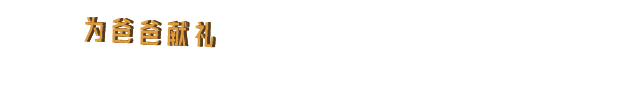
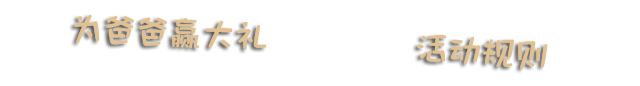
完成新版主题页的替换

Changed region(s): [[0.0938, 0.186, 0.4375, 0.6047], [0.625, 0.3953, 0.875, 0.8372]]

diff --git a/applications/static/h5/css/father/skin.css b/applications/static/h5/css/father/skin.css
@@ -40,13 +40,13 @@ img{display:block;width:100%}
 .on .loading-img{animation:fade-in 2s linear both;-webkit-animation:fade-in 2s linear both}
 #percent{position:absolute;right:.5rem;top:110%;color:#fff;text-align:center;left:0;opacity:0.7}
 /*-----------------------------����-------------------------------------*/
-#music{position:absolute;width:.33rem;height:.33rem;right:.02rem;top:.02rem;z-index:500;visibility:hidden}
+#music{position:absolute;width:.33rem;height:.33rem;right:.02rem;top:0.6rem;z-index:500;visibility:hidden}
 .music{width:100%;height:100%;background:url(../../images/father/music.png?v=20170606) no-repeat center bottom;background-size:100%}
 .play{background-position:center top}
 #music>span{color:#fff;position:absolute;left:-.52rem;top:0;line-height:.33rem;font-size:.14rem;opacity:0;-webkit-transition:all 0.3s linear;transition:all 0.3s linear}
 #music>span.zshow{left:-.3rem;opacity:1}
 /*-----------------------------��һ��-------------------------------------*/
-.text-1{position:absolute;width:1.09rem;height:1.58rem;right:.28rem;top:.2rem}
+.text-1{position:absolute;width:1.09rem;height:1.58rem;right:.28rem;top:0.62rem}
 @keyframes fade-in{0%{opacity:0}100%{opacity:1}}
 @-webkit-keyframes fade-in{0%{opacity:0}100%{opacity:1}}
 @keyframes fade-out{0%{opacity:1}100%{opacity:0}}
@@ -59,19 +59,19 @@ img{display:block;width:100%}
 @-webkit-keyframes bg{0%{-webkit-transform:scale(1)}100%{-webkit-transform:scale(1.1)}}
 .on>.bg{animation:bg 10s linear both;-webkit-animation:bg 10s linear both}
 /*-----------------------------�ڶ���-------------------------------------*/
-.text-2{position:absolute;width:1.17rem;height:1.45rem;left:1.06rem;top:0}
+.text-2{position:absolute;width:1.17rem;height:1.45rem;left:1.06rem;top:0.36rem}
 .on .text-2-1{animation:fade-in 1s linear both;-webkit-animation:fade-in 1s linear both}
 .on .text-2-2{animation:fade-in 1s linear both 1s;-webkit-animation:fade-in 1s linear both 1s}
 .on .text-2-3{animation:fade-in 1s linear both 2.5s;-webkit-animation:fade-in 1s linear both 2.5s}
 .on .text-2-4{animation:fade-in 1s linear both 4s;-webkit-animation:fade-in 1s linear both 4s}
 /*-----------------------------������-------------------------------------*/
-.text-3{position:absolute;width:1.09rem;height:1.3rem;left:1.7rem;top:.12rem}
+.text-3{position:absolute;width:1.09rem;height:1.3rem;left:1.7rem;top:0.66rem}
 .on .text-3-1{animation:fade-in 1s linear both;-webkit-animation:fade-in 1s linear both}
 .on .text-3-2{animation:fade-in 1s linear both 0.7s;-webkit-animation:fade-in 1s linear both 0.7s}
 .on .text-3-3{animation:fade-in 1s linear both 2s;-webkit-animation:fade-in 1s linear both 2s}
 .on .text-3-4{animation:fade-in 1s linear both 3.5s;-webkit-animation:fade-in 1s linear both 3.5s}
 /*-----------------------------������-------------------------------------*/
-.text-4{position:absolute;width:1.12rem;height:1.89rem;left:1.85rem;top:.16rem}
+.text-4{position:absolute;width:1.12rem;height:1.89rem;left:1.85rem;top:0.66rem}
 .train{width:35.2rem}
 .on .train{animation:train 1.5s steps(1) both 3;-webkit-animation:train 1.5s steps(1) both 3}
 .on .train>.bg{animation:trains 3s steps(1) both 4.5s;-webkit-animation:trains 3s steps(1) both 4.5s}
@@ -88,7 +88,7 @@ img{display:block;width:100%}
 .on .text-4-4{animation:fade-in 1s linear both 5s;-webkit-animation:fade-in 1s linear both 5s}
 .on .text-4-5{animation:fade-in 1s linear both 6.5s;-webkit-animation:fade-in 1s linear both 6.5s}
 /*-----------------------------������-------------------------------------*/
-.text-5{position:absolute;width:1.3rem;height:1.09rem;left:1.3rem;top:.25rem}
+.text-5{position:absolute;width:1.3rem;height:1.09rem;left:1.3rem;top:0.65rem}
 .on .text-5-1{animation:fade-in 1s linear both;-webkit-animation:fade-in 1s linear both}
 .on .text-5-2{animation:fade-in 1s linear both 1s;-webkit-animation:fade-in 1s linear both 1s}
 .on .text-5-3{animation:fade-in 1s linear both 2.5s;-webkit-animation:fade-in 1s linear both 2.5s}
@@ -102,7 +102,7 @@ img{display:block;width:100%}
 /*-----------------------------������-------------------------------------*/
 .text-7{position:absolute;width:1.29rem;height:1.3rem;left:1.35rem;top:.75rem}
 .text-8{position:absolute;width:.52rem;height:1.09rem;left:1.75rem;top:.8rem}
-.text-9{position:absolute;width:.81rem;height:1.84rem;left:1.43rem;top:.3rem}
+.text-9{position:absolute;width:.81rem;height:1.84rem;left:1.43rem;top:0.66rem}
 .on .text-7-1{animation:fade-in 1s linear both;-webkit-animation:fade-in 1s linear both}
 .on .text-7-2{animation:fade-in 1s linear both 1s;-webkit-animation:fade-in 1s linear both 1s}
 .on .text-7-3{animation:fade-in 1s linear both 2.4s;-webkit-animation:fade-in 1s linear both 2.4s}
@@ -119,12 +119,10 @@ img{display:block;width:100%}
 @-webkit-keyframes fade-in-big{0%{-webkit-transform:scale(0.8)}100%{-webkit-transform:scale(1)}}
 /*-----------------------------�ڰ���-------------------------------------*/
 .logo{position:absolute;width:1.03rem;left:.14rem;top:.18rem}
-.liwu{position:absolute;left:0;width:3.2rem;height:2.26rem;bottom:1.8rem;opacity:0}
+.liwu{position:absolute;left:0;width:3.2rem;height:2.26rem;bottom:2.26rem;opacity:0}
 .text-end{position:absolute;left:.35rem;width:2.44rem;height:.33rem;bottom:1.25rem;opacity:0}
 .button{bottom:.36rem;opacity:0}
-.button a{position:absolute;top:0;width:50%;height:100%;text-indent:-9999px;overflow:hidden}
-.link{left:0}
-.share{right:0}
+
 @keyframes fade-in-down{0%{transform:translate(0,-50%);opacity:0}100%{transform:none;opacity:1}}
 @-webkit-keyframes fade-in-down{0%{-webkit-transform:translate(0,-50%);opacity:0}100%{-webkit-transform:none;opacity:1}}
 .on .liwu{animation:fade-in-down 1s ease both;-webkit-animation:fade-in-down 1s ease both}

diff --git a/applications/static/h5/css/father/diy.css b/applications/static/h5/css/father/diy.css
@@ -70,3 +70,46 @@
     padding: 0.05rem;
 	font-size: 0.1rem;
 }
+
+#logo{
+	position:absolute;
+	width:100%;
+	height:0.4rem;
+	z-index:500;
+}
+
+.logo-left, .logo-right{
+	float:left;
+	width:50%;
+}
+
+.logo-right img{
+	height:100%;
+	margin-left: -0.2rem;
+}
+
+
+.logo-left img{
+	height:100%;
+	margin-left: 0.3rem;
+}
+
+.link{
+	position: absolute;
+	width: 50%;
+    height: 0.3rem;
+    text-indent: -9999px;
+    overflow: hidden;
+    bottom: 0.1rem;
+}
+
+.gz{
+	position: absolute;
+	width: 50%;
+    height: 0.3rem;
+    text-indent: -9999px;
+    overflow: hidden;
+    bottom: 0.04rem;
+	right:0;
+}
+

diff --git a/applications/static/h5/js/father/js.js b/applications/static/h5/js/father/js.js
@@ -141,6 +141,7 @@ $(function() {
 			setTimeout(function(){
 				load1 = true;
 				enter();
+				$('#logo').show();
 			},3000)
 			var img = $("body").find("img[loadsrc]");//图片数组
 			var length = img.length;//图片数量

diff --git a/applications/www/application/views/father/index.php b/applications/www/application/views/father/index.php
@@ -124,36 +124,16 @@ function setElement(){var clientWidth=document.documentElement.clientWidth;scale
 		<!--第八屏 start-->
 		<div class="swiper-slide">
 			<div class="page end">
-				<div class="bg no-full-bottom"><img src="" loadsrc="<?php echo $domain['statics']['url']?>/h5/images/father/new_8.jpg" /></div>
-				<div class="msglist">
-				    <?php if($list):?>
-				    <?php foreach ($list as $k => $v):?>
-				    <div class="p-list">
-				        <div class="p-info">
-				            <div class="p-head">
-				                <img src="<?php echo $v['head_img']?>">
-				            </div>
-                            <div class="p-name">
-                                <p><?php echo $v['nickname']?></p>
-                            </div>
-                            <div class="p-zan">
-				                <span id="zan_<?php echo $v['id']?>"><?php echo $v['zan_num']?></span>
-				                <img class="img_zan" data="<?php echo $v['id']?>" src="<?php echo $domain['statics']['url']?>/h5/images/father/zan.png">
-				            </div>
-				            <div class="p-msg">
-                                <p><?php echo $v['msg']?></p>
-                            </div>
-                        </div>
-				    </div>
-				    <?php endforeach;?>
-				    <?php endif;?>
-				    <div class="see-and-say">
-				        <a href="/father/lists">查看更多</a>
-				        <a id="say" href="#">我也要说</a>
-				    </div>
+				<div class="bg no-full-bottom"><img src="" loadsrc="<?php echo $domain['statics']['url']?>/h5/images/father/new-8.png" /></div>
+				<div class="liwu"><img src="" loadsrc="<?php echo $domain['statics']['url']?>/h5/images/father/liwu.png" /></div>
+				<div class="text-end"><img src="" loadsrc="<?php echo $domain['statics']['url']?>/h5/images/father/text-end.png" /></div>
+				<div class="button auto-x">
+					<div class="bg">
+					</div>
+					<a class="link" href="/father/list">为爸爸赢大礼</a>
+					<a class="gz" onclick="alert(1)">规则</a>
 				</div>
 			</div>
-			<!-- div class="logo"><img src="" loadsrc="<?php echo $domain['statics']['url']?>/h5/images/father/logo.png" /></div-->
 		</div>
 		<!--第八屏 end-->
 	</div>
@@ -168,6 +148,11 @@ function setElement(){var clientWidth=document.documentElement.clientWidth;scale
 	<div id="music">
 		<div class="music play"></div>
 		<span>开启</span>
+	</div>
+	
+	<div id="logo" style="display:none;">
+	   <div class="logo-left"><img src="<?php echo $domain['statics']['url']?>/h5/images/father/logo-left.png"></div>
+	   <div class="logo-right"><img src="<?php echo $domain['statics']['url']?>/h5/images/father/logo-right.png"></div>
 	</div>
 	
 	<!--音乐 end-->

diff --git a/applications/www/application/controllers/Father.php b/applications/www/application/controllers/Father.php
@@ -16,8 +16,7 @@ class Father extends MY_Controller{
     
     public function index(){
         $data = $this->data;
-        //微信登陆 
-        $this->check_login();
+        //微信登陆 $this->check_login();
         
         $user_info = $this->session->userdata('user_info');
         $data['r_status'] = 0;
